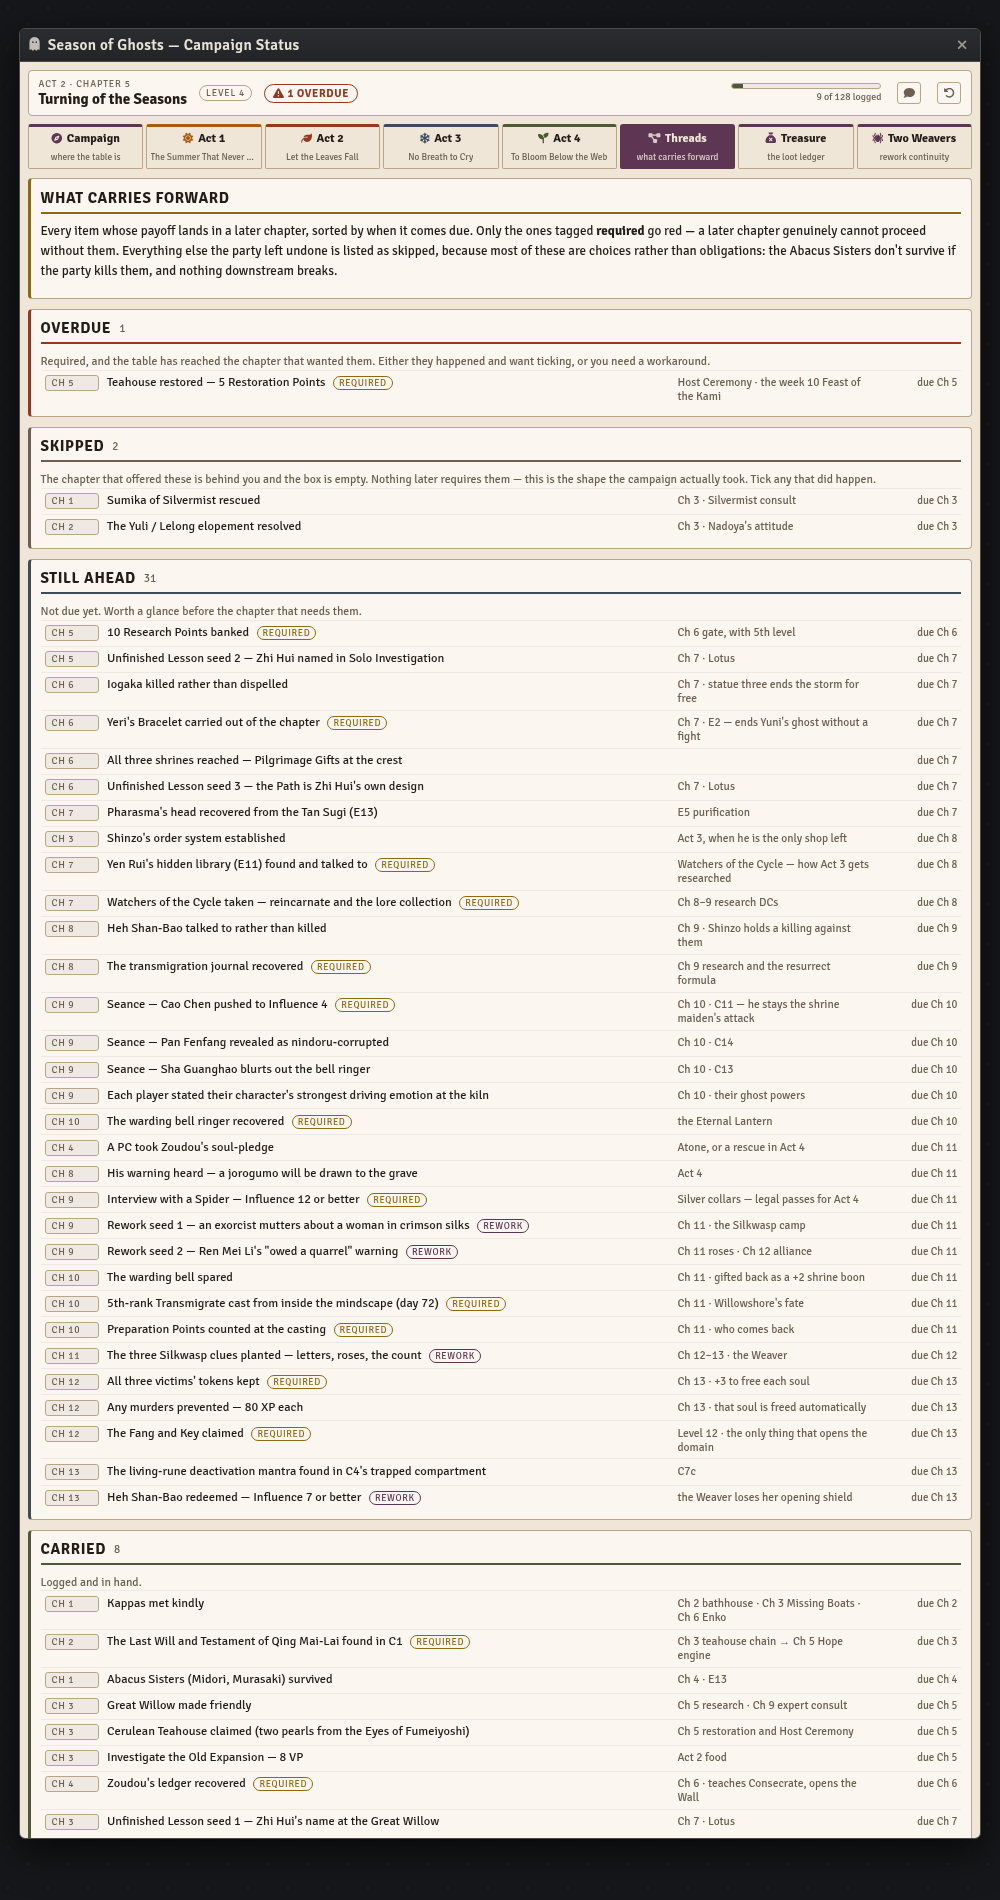
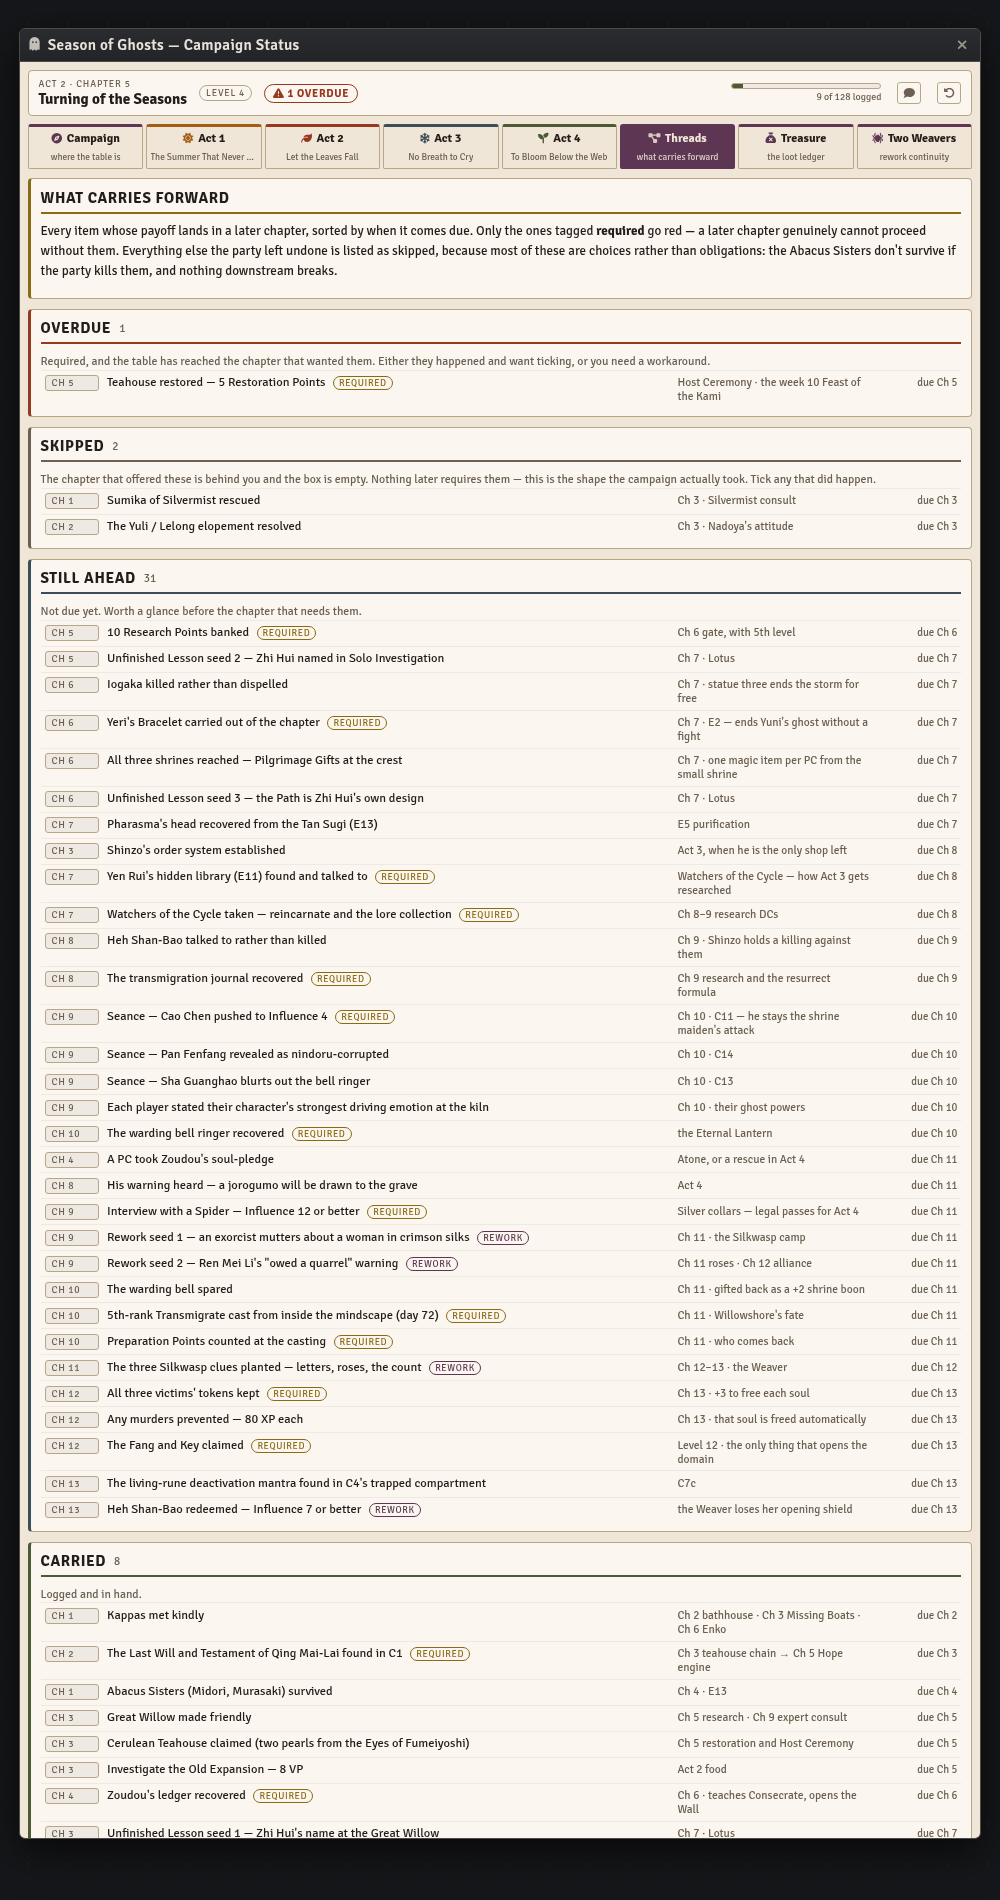
Act 2: sync the path, the monastery, and the campaign ledger
Running Chapters 6 and 7 back to back exposed the seams between the three
macros that cover them. The Enlightened Path console never named the
Pilgrimage Gifts its own final tab is counting toward, never said which life
each shrine stands for, and never mentioned that the Soulthief rejuvenates or
that the serpents go for Enko. The Ruins of Wisdom console buried the Aid
risk on a purification inside an outcome table and left the Zhi Hui healing
trigger to the moment. The campaign tracker's loot ledger was missing two
Chapter 6 treasures the path console has always listed.

Also fixes the arrival chat card, which fell through to "fewer than three
shrines" when the Enlightened Path console had never been run — announcing a
disappointment to a party that may have reached all three.

diff --git a/macros/season-of-ghosts/enlightened-path-console.js b/macros/season-of-ghosts/enlightened-path-console.js
@@ -76,23 +76,24 @@ const VISION = {
       text: "A gateway that stays put while the vision is unresolved. Stepping back through it returns the party toward Willowshore.",
       checks: [] },
     { id: "A2", name: "Tan Sui-Jing's Grave", level: "", tone: "plum",
-      text: "A corpse with its heart torn out by a clawed hand, one arm pointing northeast. \"Kugaptee\" is carved nearby, and a whisper says: find the seed.",
+      text: "A corpse with its heart torn out by a clawed hand, one arm pointing northeast. \"Kugaptee\" is carved nearby in Aklo, and a whisper says: find the seed.",
       checks: ["DC 18 Survival to follow the trail northeast", "DC 21 Survival if the trail has gone cold"] },
     { id: "A3", name: "The Soulthief's Nest", level: "Low 5", tone: "rust",
       text: "A ravenous, intelligent vulture hunkers in its nest chewing at Sui-Jing's heart. It demands the party leave, then attacks — and three clots of blood rip free of the heart as cacodaemons wearing distorted copies of the corpse's face, yellow-eyed and full of teeth.",
       checks: ["DC 15 Nature or DC 18 Perception to spot the nest's trophies"],
+      note: "Leave the vision with the job unfinished and the vulture rejuvenates — the fight is waiting again on the next visit. Hound them with nightmares until they come back and finish it.",
       loot: "Two gemini trophy feathers in the nest." },
     { id: "A4", name: "Planting the Soul Seed", level: "Low 5", tone: "moss",
       text: "Taking the heart turns the mindscape to night, and Kugaptee's Anger wakes as a hazard across the whole forest. Returning the heart to the body is a single Interact action: the anger howls and flees into the distance, the body sinks into stone, and a hundred-foot sugi tree erupts, driving the fog away. Reality fades and the party stands on the real Pilgrim's Path.",
       checks: [],
-      xp: 60, note: "The tunnel through the Wall is now permanently passable." }
+      xp: 60, note: "The walk back to A2 happens under the Anger — don't let them stroll it. Once the seed is planted the tunnel through the Wall is permanently passable." }
   ]
 };
 
 /* ------------------------------------------------------------- the days */
 const DAYS = {
   d1: {
-    title: "The First Day", shrine: "Bridge Shrine",
+    title: "The First Day", shrine: "Bridge Shrine", meaning: "the traveller's past lives",
     weather: "Crisp and cloudy",
     travel: "About five miles, walked slowly so the traveller reaches the shrine at sunset. Dense forest through the morning, then the shore of Mirror Lake. The road looks as it did half a century ago rather than the overgrown ruin it should be.",
     encounters: [
@@ -103,6 +104,7 @@ const DAYS = {
       { id: "B2", name: "Serpent Ambush", level: "Low 5", tone: "rust",
         text: "Two amphisbaenas strike from either side of the path — one hidden in forest detritus, one in the shallow water at the lake's edge. They fight to the death.",
         checks: [],
+        note: "If the party is carrying Enko, the serpents go for him. Left undefended he can die here, and the reward at the lake dies with him.",
         loot: "If Enko was escorted to the lake and survives, he dives and returns with a +1 striking silver shortsword and a wand of environmental endurance carried on a minor sturdy shield.",
         xp: 40, xpNote: "for escorting Enko to the water" }
     ],
@@ -121,7 +123,7 @@ const DAYS = {
     }
   },
   d2: {
-    title: "The Second Day", shrine: "Garden Shrine",
+    title: "The Second Day", shrine: "Garden Shrine", meaning: "the traveller's future lives",
     weather: "Rain by noon, downpour by evening",
     travel: "Mirror Lake's shore, then the northern bank of the West Sugi River, climbing but not yet mountainous. Rain douses small flames and imposes −1 to Perception; the evening downpour raises that to −2. Approaching the shrine, each PC attempts a DC 18 Fortitude save or becomes fatigued — automatic success for anyone with Environmental Endurance or winter clothing.",
     encounters: [
@@ -150,7 +152,7 @@ const DAYS = {
     }
   },
   d3: {
-    title: "The Third Day", shrine: "Mountain Shrine",
+    title: "The Third Day", shrine: "Mountain Shrine", meaning: "the traveller's present life",
     weather: "Fog, then wind, then thunderstorm",
     travel: "Switchbacks and steep slopes, cliffs crowding the path. Fog lifts past noon; the wind then snuffs handheld flames and imposes −1 to physical ranged attacks. Once the fog clears, the view east shows Willowshore under what looks like a bowl of dark cloud.",
     encounters: [
@@ -181,6 +183,15 @@ const DAYS = {
       save: "Fortitude", xp: 40
     }
   }
+};
+
+/* What all three enlightenments actually buy at the crest. The Ruins of
+   Wisdom console reads the same shrine state and opens Chapter 7 with it, so
+   the payoff is spelled out here rather than left to that macro. */
+const GIFTS = {
+  all: "Zhi Hui's welcome is pride rather than disappointment, and the party feels an urge to look inside the small shrine at the crest. Inside are the Pilgrimage Gifts — one magic item per PC, manifested by her power the same way Kugaptee's presence has manifested so many monsters.",
+  how: "Choose one gift per PC from the Adventure Toolbox to suit their abilities and themes; each PC instinctively recognises which is meant for them. The Toolbox items also work as templates for gifts of your own design.",
+  fewer: "Fewer than three and there are no gifts — only an unseen disappointment and the understanding that they should walk back for the shrines they missed. Let them. Nothing on the Path resets."
 };
 
 const COMMON_KNOWLEDGE = [
@@ -551,7 +562,7 @@ class EPApp extends BaseApp {
     const lit = t.enlightened(dayKey);
     return `
       <section class="panel daybar" style="--tone:var(--slate)">
-        <h3>${d.title} <small>${d.weather}</small>
+        <h3>${d.title} <small>${d.shrine} · ${d.meaning} · ${d.weather}</small>
           ${this.jbtn(JPAGE[dayKey])}
           <button type="button" class="say" data-act="postday" data-k="${dayKey}" title="Read to the table"><i class="fa-solid fa-comment"></i></button>
         </h3>
@@ -598,7 +609,11 @@ class EPApp extends BaseApp {
           <div class="cbox">
             <b>${t.enlightenmentCount} of 3 enlightenments</b>
             <p>${bonuses.length ? `+1 item bonus to ${bonuses.join(", ")} saves until the end of the act.` : "No save bonuses banked."}</p>
-            ${missing.length ? `<p class="hint">Missed: ${missing.join(", ")}. Master Zhi Hui's ghost rewards the party by how many they reached.</p>` : `<p class="hint">All three. The party walks in buffed on every save.</p>`}
+            ${missing.length
+              ? `<p class="hint">Missed: ${missing.join(", ")}. ${GIFTS.fewer}</p>`
+              : `<p class="hint">All three. The party walks in buffed on every save.</p>
+                 <p>${GIFTS.all}</p>
+                 <p class="hint">${GIFTS.how}</p>`}
           </div>
           <div class="cbox">
             <b>Threads</b>

diff --git a/macros/season-of-ghosts/ruins-of-wisdom-console.js b/macros/season-of-ghosts/ruins-of-wisdom-console.js
@@ -90,6 +90,7 @@ const PURIFY = {
   traits: ["Concentrate", "Exploration"],
   requirement: "All hostile creatures in the encounter area where the statue stands are defeated.",
   text: "10 minutes offering prayers to the statue's guardian spirits, cleaning or repairing the damage, and removing malignant encrustations and supernatural markings. Other PCs can Aid with any of the allowed skills.",
+  warn: "The failure damage is this chapter's real threat: 5d6 mental splashing onto every single Aider, at 6th level, off a DC 20. Everybody piling on to Aid is a plausible party wipe outside of combat. Say the Aid risk out loud once — after that it's their call.",
   checks: ["DC 20 Religion", "DC 22 Crafting", "DC 24 Thievery"],
   outcomes: {
     cs: "The statue is purified.",
@@ -323,7 +324,7 @@ const AREAS = [
       "Let her finish the speech and she rolls Diplomacy for initiative; interrupt her and she rolls Perception.",
       "All seven at once is beyond an Extreme 6 encounter — but with four statues purified, Zhi Hui manifests at the party's side, becomes spiritual energy, and pours into the roots. They thrash down and crush the six kurobozus, leaving Xin Yue alone and furious.",
       "Beating her is only half of it. Her Profane Reincarnation splits her open as a sojiruh nindoru while Kugaptee's fingers flex; Zhi Hui screams as the roots wither, and the six crushed kurobozus split open as meokdan nindorus. Back to back, a Low 6 followed by a Moderate 6.",
-      "If the party needs help in the final fight, Zhi Hui can manifest once more — but only to cast healing spells."
+      "If the party needs help in the final fight, Zhi Hui can manifest once more — but only to cast healing spells. Decide the trigger before session rather than in the moment; two PCs below half is a clean one."
     ] }
 ];
 
@@ -656,12 +657,17 @@ class Monastery {
     return this.postCard(`Purification ${n} of 4`, e.title,
       `<p style="margin:0 0 6px">${e.text}</p>${e.quote ? `<p style="margin:0;font-style:italic">“${e.quote}”</p>` : ""}`, e.tone);
   }
+  /* When the Enlightened Path console was never run there is nothing to read
+     the welcome off, and guessing costs the table a scene — "fewer than three"
+     tells them they missed shrines they may well have reached. Post the
+     approach alone and let the GM pick the welcome. */
   postArrival() {
     const count = this.enlightenments;
-    const body = `<p style="margin:0 0 6px">${ARRIVAL.boxed}</p>` +
-      (count === 3 ? `<p style="margin:0">${ARRIVAL.all}</p>`
-                   : `<p style="margin:0">${ARRIVAL.fewer}</p>`);
-    return this.postCard("Chapter 7", "In the Ruins of Wisdom", body, "gold");
+    if (count === null) ui.notifications.info("No Enlightened Path state saved, so Zhi Hui's welcome is left off the card — tick the shrines on the Arrival tab's console, or read the welcome yourself.");
+    const welcome = count === null ? ""
+      : `<p style="margin:0">${count === 3 ? ARRIVAL.all : ARRIVAL.fewer}</p>`;
+    return this.postCard("Chapter 7", "In the Ruins of Wisdom",
+      `<p style="margin:0${welcome ? " 0 6px" : ""}">${ARRIVAL.boxed}</p>${welcome}`, "gold");
   }
   postConclusion() {
     return this.postCard("Concluding the act", "The grave restored",
@@ -805,6 +811,7 @@ class RWApp extends BaseApp {
         <ul class="outcomes">
           ${DEG.map(d => `<li><b>${DEG_LABEL[d]}</b> ${PURIFY.outcomes[d]}</li>`).join("")}
         </ul>
+        <p class="blocked"><i class="fa-solid fa-triangle-exclamation"></i> ${PURIFY.warn}</p>
       </section>
 
       <div class="grid">${Object.keys(STATUES).map(k => this.statueCard(k, ro)).join("")}</div>

diff --git a/macros/season-of-ghosts/campaign-status-tracker.js b/macros/season-of-ghosts/campaign-status-tracker.js
@@ -287,6 +287,7 @@ const LOOT_PAGES = {
   "3.peachwood": "05ppeachwoodgr00",
   "4.gift": "06themerchantr00",
   "5.yami": "07restoringthe00",    "5.shinzo": "07week3firstlo00",
+  "6.feathers": "08intothewallo00",
   "6.enko": "08b1tormentedk00",    "6.charges": "08b3bridgeshri00",
   "6.orchids": "08c3gardenshri00", "6.soap": "08d3mountainsh00",
   "6.thurible": "08d3mountainsh00",
@@ -430,7 +431,9 @@ const CHAPTERS = [
       { key: "enko", label: "Enko escorted to Mirror Lake", note: "He surfaces with a +1 striking silver shortsword, a wand of environmental endurance, and a minor sturdy shield." },
       { key: "bracelet", label: "Yeri's Bracelet carried out of the chapter", hard: true,
         pays: "Ch 7 · E2 — ends Yuni's ghost without a fight", at: 7 },
-      { key: "gifts", label: "All three shrines reached — Pilgrimage Gifts at the crest", at: 7 },
+      { key: "gifts", label: "All three shrines reached — Pilgrimage Gifts at the crest",
+        pays: "Ch 7 · one magic item per PC from the small shrine", at: 7,
+        note: "Fewer than three and there are no gifts at all — only Zhi Hui's disappointment and an invitation to walk back." },
       { key: "lesson3", label: "Unfinished Lesson seed 3 — the Path is Zhi Hui's own design", pays: "Ch 7 · Lotus", at: 7 }
     ] },
 
@@ -612,6 +615,8 @@ const LOOT = {
     { key: "shinzo", label: "Shinzo at 10% off", where: "During the First Long Night, week 3" }
   ],
   6: [
+    { key: "feathers", label: "Two gemini trophy feathers", where: "The Soulthief's nest, inside the Wall" },
+    { key: "gems", label: "Two fear gem talismans", where: "C1 — a clot of crystallised blood in each slain mandragora" },
     { key: "enko", label: "+1 striking silver shortsword, wand of environmental endurance, minor sturdy shield", where: "Enko surfaces with them at Mirror Lake" },
     { key: "charges", label: "Six moderate ghost charges", where: "Bridge Shrine — fill the clay vials from the dippers" },
     { key: "orchids", label: "Six doses of lesser healing vapor", where: "Garden Shrine — the blue orchids in the oak's roots" },

diff --git a/CHANGELOG.md b/CHANGELOG.md
@@ -1,5 +1,54 @@
 # Changelog
 
+## 2026-08-18 20:44
+
+### Added
+- **Enlightened Path — each shrine now says which life it stands for.** The chapter's whole
+  frame is that the three shrines are the traveller's past, future, and present lives, and the
+  console said so exactly once, buried in the common-knowledge list on the final-day tab as an
+  unattributed "past, future, and present lives". Nothing on the day tabs told you that the
+  Bridge Shrine is the past one. Each day's header now reads shrine, meaning, and weather
+  together, so the day you are actually running names its own theme.
+- **Enlightened Path — what the third enlightenment actually buys.** The final-day tab counted
+  the enlightenments and listed the save bonuses, but never named the Pilgrimage Gifts, which is
+  the reward the party is really walking for: one magic item per PC, out of the small shrine at
+  the crest, chosen from the Adventure Toolbox. The Ruins of Wisdom console has always described
+  this at its arrival; the console whose job is to get the party to the crest did not, so a GM
+  reading only this macro could not tell the table what they had earned. All three now spells out
+  the gifts and how to pick them, and fewer than three spells out that there are none at all.
+- **Ruins of Wisdom — the Aid risk on a purification, said once and plainly.** The outcome table
+  has always noted that failure hits "you and everyone who Aided", but as one clause inside a
+  four-row table it reads like bookkeeping. At 6th level, off a DC 20, 5d6 mental splashing onto
+  every Aider is a plausible party wipe outside of combat, and the natural instinct is for
+  everybody to pile on. The purification panel now carries that warning as its own line.
+- **Enlightened Path — the vulture rejuvenates, and the walk back to A2 is under pressure.**
+  Nothing said what happens if the party leaves Kugaptee's dream with the heart unreturned: the
+  Soulthief comes back and the fight is waiting again. Nor that the return leg to the grave
+  happens with Kugaptee's Anger already roaming, which is the only thing making that walk a
+  scene rather than a formality.
+- **Enlightened Path — the serpents go for Enko.** The Serpent Ambush listed the reward for
+  escorting the kappa to Mirror Lake without mentioning that the amphisbaenas target him if he
+  is left undefended, which is the encounter's actual decision and the way the reward is lost.
+- **Ruins of Wisdom — decide Zhi Hui's healing trigger before session.** The campaign tracker's
+  Chapter 7 prep cues have carried this reminder for a while; the console that runs the fight
+  only said she "can manifest once more". It now says to fix the trigger in advance and offers
+  two PCs below half as a clean one.
+- **Campaign tracker — the two Chapter 6 treasures the ledger never listed.** The gemini trophy
+  feathers in the Soulthief's nest and the fear gem talismans inside the slain mandragoras are
+  both in the Enlightened Path console and were both missing from the loot ledger, so the one
+  screen meant to answer "what did they walk past" was wrong about this chapter.
+
+### Fixed
+- **Ruins of Wisdom — the arrival card no longer tells the table they missed shrines it never
+  checked.** Zhi Hui's welcome is read off the Enlightened Path console's saved state. The
+  on-screen panel handled a missing state properly and said so, but the chat card fell through
+  to the "fewer than three" text, so posting the arrival before that console had ever been run
+  announced a disappointment to a party that may well have reached all three. The card now posts
+  the approach alone and tells the GM why the welcome is missing.
+- **Campaign tracker — the Pilgrimage Gifts thread said what it was owed to, but not what it
+  pays.** The Threads tab renders each item's payoff; this one carried a due chapter and no
+  payoff line, so it showed up as a blank column next to threads that explained themselves.
+
 ## 2026-08-18 17:59
 
 ### Added
